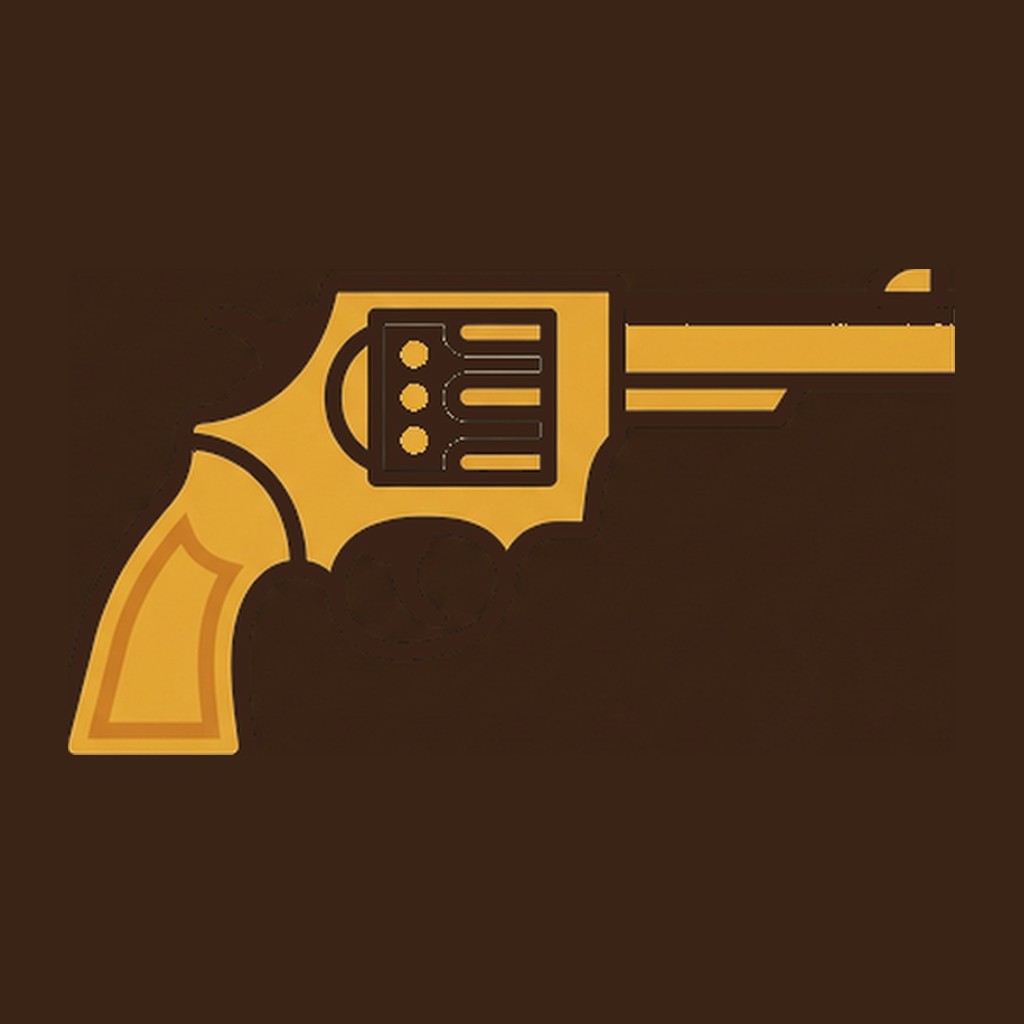
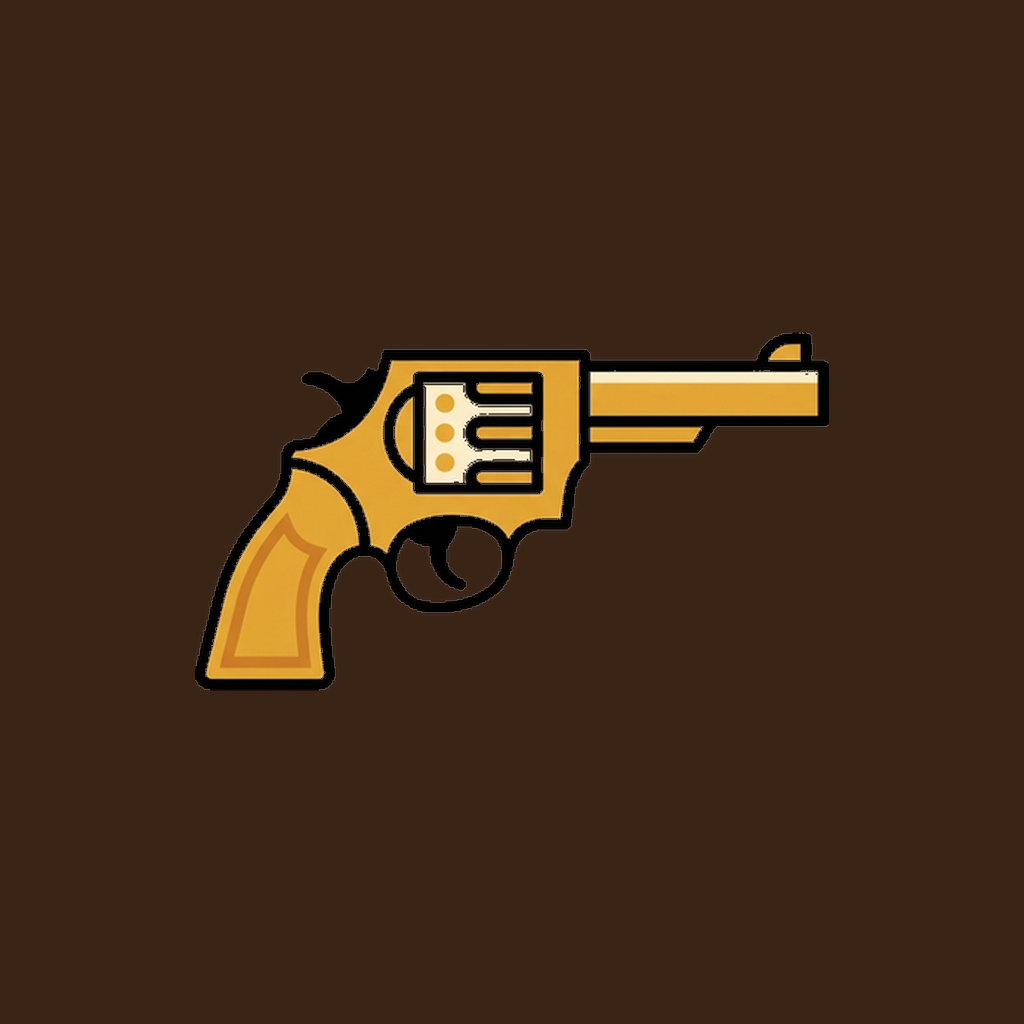
feat: enhance audio and haptic feedback in UI interactions
- Updated the WoodButton component to include audio and haptic feedback on press, improving user experience.
- Modified the play function in audioService to return a promise, allowing for better control over sound playback.
- Added a comment in the TitleScreen to clarify the navigation logic related to sound playback.

These changes aim to enrich the interactivity and responsiveness of the application.

Changed region(s): [[0.0625, 0.25, 0.9375, 0.75]]

diff --git a/utils/audioService.ts b/utils/audioService.ts
@@ -181,7 +181,7 @@ async function playFromPlayer(player: AudioPlayer | undefined): Promise<void> {
   if (!player) return;
   try {
     player.pause();
-    void player.seekTo(0);
+    await player.seekTo(0);
     player.play();
   } catch {
     /* ignore */
@@ -203,10 +203,10 @@ export function playGunshot(): void {
   });
 }
 
-/** 짧은 효과음 재생 (설정 off 시 무시) */
-export function play(name: SoundName): void {
-  if (!useSettingsStore.getState().soundEnabled) return;
-  void playInternal(name);
+/** 짧은 효과음 재생 (설정 off 시 무시). 재생 시작까지 await 가능. */
+export function play(name: SoundName): Promise<void> {
+  if (!useSettingsStore.getState().soundEnabled) return Promise.resolve();
+  return playInternal(name);
 }
 
 function pickVoicePack(): number {
@@ -261,7 +261,7 @@ async function playInternal(name: SoundName): Promise<void> {
       player = cache.get(name);
     }
     if (!player) return;
-    void playFromPlayer(player);
+    await playFromPlayer(player);
   } catch {
     /* 시뮬레이터·에셋 누락 등 */
   }

diff --git a/components/ui/WoodButton.tsx b/components/ui/WoodButton.tsx
@@ -9,6 +9,8 @@ import {
 } from 'react-native';
 
 import { colors } from '@/constants/theme';
+import { play } from '@/utils/audioService';
+import { trigger } from '@/utils/hapticService';
 
 type Props = {
   title: string;
@@ -27,6 +29,13 @@ export function WoodButton({
   textStyle,
   accessibilityHint,
 }: Props) {
+  const handlePress = () => {
+    if (disabled) return;
+    void play('ready_click');
+    void trigger('selection');
+    onPress();
+  };
+
   return (
     <Pressable
       accessibilityRole="button"
@@ -34,7 +43,7 @@ export function WoodButton({
       accessibilityHint={accessibilityHint}
       accessibilityState={{ disabled: Boolean(disabled) }}
       disabled={disabled}
-      onPress={onPress}
+      onPress={handlePress}
       style={({ pressed }) => [
         styles.outer,
         disabled && styles.outerDisabled,

diff --git a/app/index.tsx b/app/index.tsx
@@ -27,6 +27,7 @@ export default function TitleScreen() {
   }, [router]);
 
   const goMenu = async () => {
+    // 소리 시작을 기다린 뒤 이동 — play()가 void면 네비게이션이 총성을 가로챔
     await Promise.all([trigger('medium'), play('bang_shot')]);
     router.push('/menu');
   };
